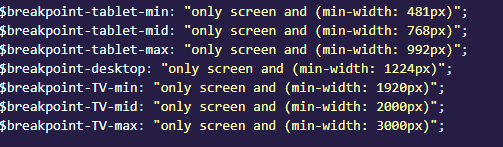
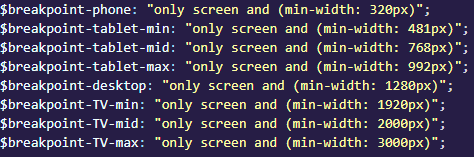
changement breakpoint de 1224px à 1280px

diff --git a/css/index-pages.css b/css/index-pages.css
@@ -188,7 +188,7 @@ ul {
   font-size: 1.8rem;
   margin: 0;
 }
-@media only screen and (min-width: 1224px) {
+@media only screen and (min-width: 1280px) {
   .h1__Menu {
     font-size: 2rem;
   }
@@ -211,7 +211,7 @@ ul {
   text-transform: uppercase;
   margin: 0;
 }
-@media only screen and (min-width: 1224px) {
+@media only screen and (min-width: 1280px) {
   .h2__thin-uppercase {
     font-size: 1.5rem;
   }
@@ -231,7 +231,7 @@ ul {
   overflow: hidden;
   display: ruby;
 }
-@media only screen and (min-width: 1224px) {
+@media only screen and (min-width: 1280px) {
   .h3__menus {
     font-size: 1.4rem;
   }
@@ -252,7 +252,7 @@ p {
   font-size: 1rem;
   margin: 0;
 }
-@media only screen and (min-width: 1224px) {
+@media only screen and (min-width: 1280px) {
   p {
     font-size: 1.3rem;
   }
@@ -298,7 +298,7 @@ p {
     left: -30%;
   }
 }
-@media only screen and (min-width: 320px) and (min-width: 1224px) {
+@media only screen and (min-width: 320px) and (min-width: 1280px) {
   header .home-link {
     left: -35%;
   }
@@ -432,7 +432,7 @@ p {
     margin-bottom: 3rem;
   }
 }
-@media only screen and (min-width: 320px) and (min-width: 1224px) {
+@media only screen and (min-width: 320px) and (min-width: 1280px) {
   .Menu__boxes {
     height: 20rem;
   }
@@ -477,7 +477,7 @@ p {
     width: 95%;
   }
 }
-@media only screen and (min-width: 320px) and (min-width: 1224px) {
+@media only screen and (min-width: 320px) and (min-width: 1280px) {
   .Menu__boxes__individual-boxes {
     height: 6rem;
   }
@@ -526,7 +526,7 @@ p {
     font-size: 1.5rem;
   }
 }
-@media only screen and (min-width: 320px) and (min-width: 1224px) {
+@media only screen and (min-width: 320px) and (min-width: 1280px) {
   .Menu__boxes__individual-boxes:hover .Menu__boxes__individual-boxes__select-button .fa-check-circle {
     font-size: 1.9rem;
   }

diff --git a/scss/_variables.scss b/scss/_variables.scss
@@ -16,7 +16,7 @@ $breakpoint-phone: "only screen and (min-width: 320px)";
 $breakpoint-tablet-min: "only screen and (min-width: 481px)";
 $breakpoint-tablet-mid: "only screen and (min-width: 768px)";
 $breakpoint-tablet-max: "only screen and (min-width: 992px)";
-$breakpoint-desktop: "only screen and (min-width: 1224px)";
+$breakpoint-desktop: "only screen and (min-width: 1280px)";
 $breakpoint-TV-min: "only screen and (min-width: 1920px)";
 $breakpoint-TV-mid: "only screen and (min-width: 2000px)";
 $breakpoint-TV-max: "only screen and (min-width: 3000px)";
